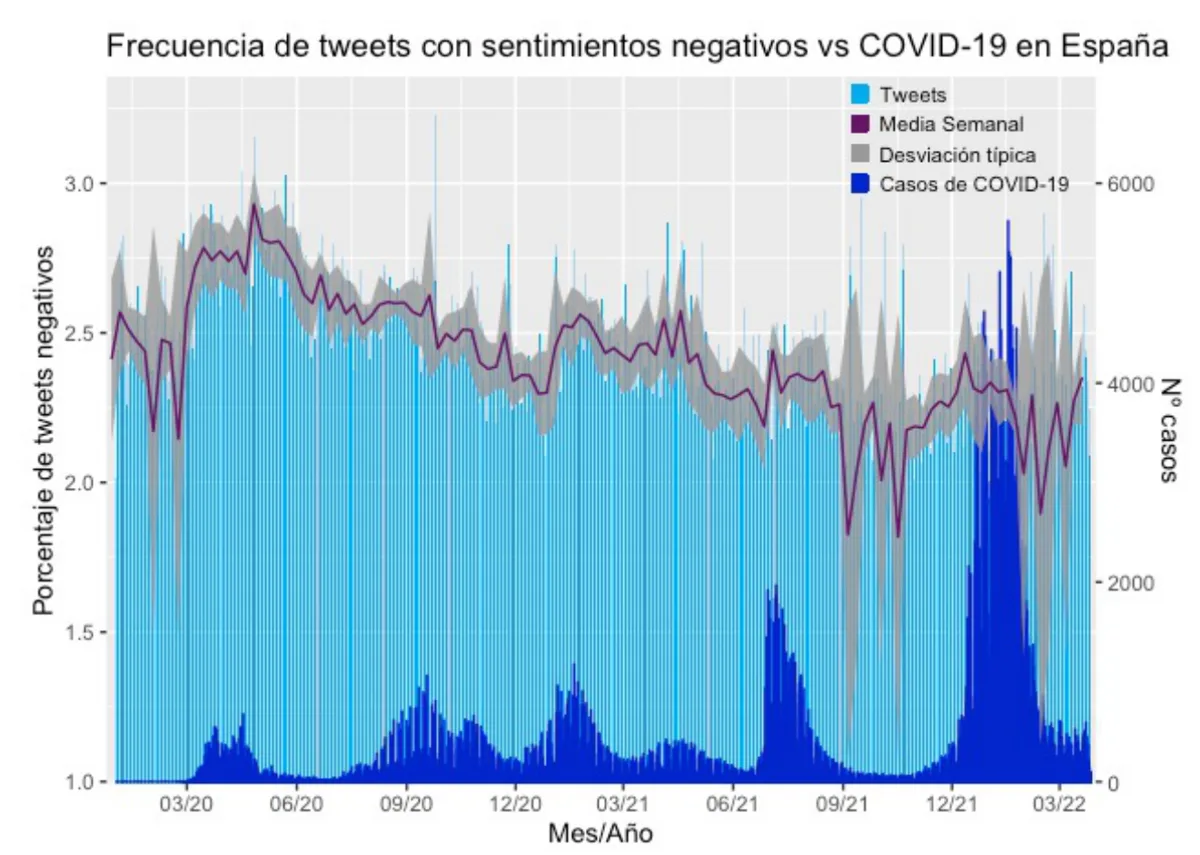
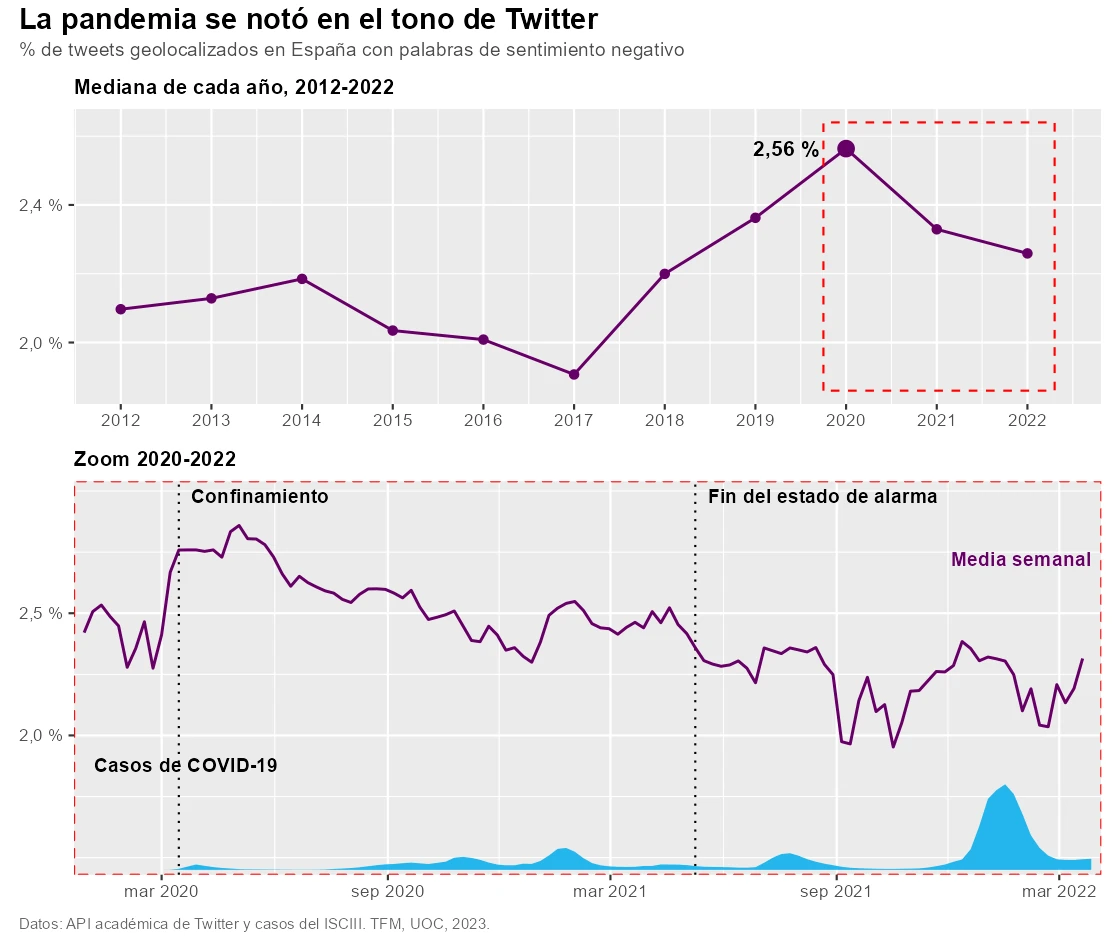
«Sobre mí»: HARMONY en 2022, gráfico del TFM UOC y figura de gobernanza
- 2022: HARMONY (datos de cánceres hematológicos, asamblea general de
  2022) con un diagrama propio del recorrido del dato, sin logos.
- 2021: gráfico del TFM de la UOC rehecho (media semanal digitalizada
  del gráfico original; la serie en bruto no se guardó).
- 2026: figura iso-glow del modelo que pasa la validación antes del
  hospital.
- Fuera proreg.webp (sin captura de la plataforma).

diff --git a/src/i18n/ui.ts b/src/i18n/ui.ts
@@ -48,9 +48,9 @@ export const ui = {
       camino: [
         { etiqueta: 'Hoy', texto: 'Soy Miguel [[retrato]]. Trabajo en la vigilancia y supervisión de modelos de inteligencia artificial en sanidad, desde Santiago de Compostela.' },
         { etiqueta: '2018 · Biología', texto: 'Estudié Biología en la Universidade de Santiago de Compostela, y la naturaleza [[mariposa]] sigue siendo mi primer interés. El máster en Bioingeniería del IQS fue mi paso del laboratorio al ordenador. Mi trabajo final fue EASiMap, una especie de mapa estelar de proteínas que sitúa las familias de enzimas a partir de sus estructuras [[easimap]].' },
-        { etiqueta: '2021 · Datos de salud', texto: 'Entré en GMV como analista de datos de salud, trabajando con datasets clínicos europeos y su calidad. En paralelo seguí formándome con el máster en Bioinformática y Bioestadística de la UOC, donde aprendí machine learning y lo apliqué a datos de salud.' },
-        { etiqueta: '2022 · Producto', texto: 'Pasé a gestionar productos de datos. Diseñé el flujo de datos de plataformas europeas como ProReg, el registro de cáncer de próstata de la European Association of Urology, con el modelo OMOP en la base, procesos ETL con controles de calidad e iteraciones con urólogos de varios países.' },
-        { etiqueta: '2026 · Gobernanza de IA', texto: 'Hoy diseño cómo se valida un modelo de IA antes de que llegue a la práctica clínica y cómo se vigila cuando ya está en uso (así empezó Blade Runner), desde su calidad, equidad y deriva hasta la forma en que lo usan los profesionales. Lo hago con IBM watsonx.governance en dos sistemas autonómicos de salud, y lo presento ante sistemas sanitarios. Mi objetivo es contribuir a que la IA siga al servicio de las personas.' },
+        { etiqueta: '2021 · Datos de salud', texto: 'Entré en GMV como analista de datos de salud, trabajando con datasets clínicos europeos y su calidad. En paralelo seguí formándome con el máster en Bioinformática y Bioestadística de la UOC, donde aprendí machine learning y lo apliqué a datos de salud [[tuits]].' },
+        { etiqueta: '2022 · Producto', texto: 'Pasé a gestionar productos de datos. Diseñé el flujo de datos de plataformas europeas como HARMONY, la red de datos de cánceres hematológicos [[harmony]], que presenté en su asamblea general de 2022, y ProReg, el registro de cáncer de próstata de la European Association of Urology. En la base estaba el modelo OMOP, con procesos ETL con controles de calidad e iteraciones con clínicos de varios países.' },
+        { etiqueta: '2026 · Gobernanza de IA', texto: 'Hoy diseño cómo se valida un modelo de IA antes de que llegue a la práctica clínica [[gobernanza]] y cómo se vigila cuando ya está en uso (así empezó Blade Runner), desde su calidad, equidad y deriva hasta la forma en que lo usan los profesionales. Lo hago con IBM watsonx.governance en dos sistemas autonómicos de salud, y lo presento ante sistemas sanitarios. Mi objetivo es contribuir a que la IA siga al servicio de las personas.' },
         { etiqueta: 'Por mi cuenta', texto: 'Todo lo que he ido aprendiendo, en la formación y en el trabajo, lo sigo usando por mi cuenta para construir herramientas. Hay mapas con datos abiertos, Vigía, un curso de seguridad de la IA y WikiNatu [[wikinatu]], que junta dos cosas que me gustan, las rutas de montaña y la biodiversidad que hay en ellas. La naturaleza sigue muy presente [[montana]], y también me interesa la fotografía [[paisaje]], sin considerarme fotógrafo.' },
       ],
       fotos: {
@@ -59,6 +59,9 @@ export const ui = {
         easimap: { src: '/sobre-mi/easimap.webp', alt: 'EASiMap, mapa estelar del hemisferio norte de la familia de enzimas GH1, con zoom en la posición 333: el triptófano se orienta distinto en eucariotas que en bacterias y arqueas' },
         tuits: { src: '/sobre-mi/tuits-covid.webp', alt: 'Gráfico de tuits con sentimiento negativo frente a casos de COVID-19 en España' },
         proreg: { src: '/sobre-mi/proreg.webp', alt: 'Web pública de ProReg, el registro de cáncer de próstata de la EAU' },
+        tuits: { src: '/sobre-mi/tuits-covid.webp', alt: 'Tuits con sentimiento negativo en España: la mediana anual sube a 2,56 % en 2020, y un zoom de 2020 a 2022 con la media semanal y las olas de COVID-19' },
+        harmony: { src: '/sobre-mi/harmony.webp', alt: 'Viaje de los datos en HARMONY: de los hospitales al repositorio armonizado en OMOP y a los equipos de análisis' },
+        gobernanza: { src: '/sobre-mi/gobernanza.webp', alt: 'Un modelo de IA pasa por un arco de validación antes de llegar a los servicios del hospital' },
         wikinatu: { src: '/sobre-mi/wikinatu.webp', alt: 'WikiNatu en la ruta de O Pindo: 83 especies de iNaturalist sobre el mapa y cinco fichas con foto' },
         montana: { src: '/sobre-mi/montana.webp', alt: 'Miguel en un valle nevado de montaña' },
         paisaje: { src: '/sobre-mi/paisaje.webp', alt: 'Valle con un río y montañas nevadas' },
@@ -117,9 +120,9 @@ export const ui = {
       camino: [
         { etiqueta: 'Today', texto: 'I am Miguel [[retrato]]. I work on monitoring and overseeing artificial intelligence models in healthcare, from Santiago de Compostela, Spain.' },
         { etiqueta: '2018 · Biology', texto: 'I studied Biology at the University of Santiago de Compostela, and nature [[mariposa]] is still my first interest. The MSc in Bioengineering at IQS was my move from the lab to the computer. My thesis was EASiMap, a kind of star map of proteins that places enzyme families from their structures [[easimap]].' },
-        { etiqueta: '2021 · Health data', texto: 'I joined GMV as a health data analyst, working with European clinical datasets and their quality. At the same time I kept studying with the MSc in Bioinformatics and Biostatistics at UOC, where I learned machine learning and applied it to health data.' },
-        { etiqueta: '2022 · Product', texto: 'I moved on to managing data products. I designed the data flow of European platforms such as ProReg, the prostate cancer registry of the European Association of Urology, with the OMOP model underneath, ETL processes with quality checks, and iterations with urologists from several countries.' },
-        { etiqueta: '2026 · AI governance', texto: 'Today I design how an AI model is validated before it reaches clinical practice and how it is monitored once in use (that is how Blade Runner started), from its quality, fairness and drift to the way professionals use it. I do it with IBM watsonx.governance in two regional health systems, and I present it to health systems. My goal is to help keep AI at the service of people.' },
+        { etiqueta: '2021 · Health data', texto: 'I joined GMV as a health data analyst, working with European clinical datasets and their quality. At the same time I kept studying with the MSc in Bioinformatics and Biostatistics at UOC, where I learned machine learning and applied it to health data [[tuits]].' },
+        { etiqueta: '2022 · Product', texto: 'I moved on to managing data products. I designed the data flow of European platforms such as HARMONY, the network for haematological cancer data [[harmony]], which I presented at its 2022 general assembly, and ProReg, the prostate cancer registry of the European Association of Urology. Underneath sat the OMOP model, with ETL processes with quality checks and iterations with clinicians from several countries.' },
+        { etiqueta: '2026 · AI governance', texto: 'Today I design how an AI model is validated before it reaches clinical practice [[gobernanza]] and how it is monitored once in use (that is how Blade Runner started), from its quality, fairness and drift to the way professionals use it. I do it with IBM watsonx.governance in two regional health systems, and I present it to health systems. My goal is to help keep AI at the service of people.' },
         { etiqueta: 'On my own', texto: 'Everything I have learned, in my studies and at work, I keep using on my own to build tools. There are open-data maps, Vigía, an AI safety course and WikiNatu [[wikinatu]], which brings together two things I like, mountain routes and the biodiversity along them. Nature is still very present [[montana]], and I am also into photography [[paisaje]], without calling myself a photographer.' },
       ],
       fotos: {
@@ -128,6 +131,9 @@ export const ui = {
         easimap: { src: '/sobre-mi/easimap.webp', alt: 'EASiMap, star map of the northern hemisphere of the GH1 enzyme family, zooming into position 333: the tryptophan points differently in eukaryotes than in bacteria and archaea' },
         tuits: { src: '/sobre-mi/tuits-covid.webp', alt: 'Chart of negative-sentiment tweets against COVID-19 cases in Spain' },
         proreg: { src: '/sobre-mi/proreg.webp', alt: 'Public website of ProReg, the EAU prostate cancer registry' },
+        tuits: { src: '/sobre-mi/tuits-covid.webp', alt: 'Negative-sentiment tweets in Spain: the yearly median peaks at 2.56 % in 2020, plus a 2020-2022 zoom with the weekly mean and COVID-19 waves' },
+        harmony: { src: '/sobre-mi/harmony.webp', alt: 'HARMONY data journey: from hospitals to the harmonised OMOP repository and the analysis teams' },
+        gobernanza: { src: '/sobre-mi/gobernanza.webp', alt: 'An AI model passes through a validation arch before reaching the hospital services' },
         wikinatu: { src: '/sobre-mi/wikinatu.webp', alt: 'WikiNatu on the O Pindo route: 83 iNaturalist species on the map and five species cards' },
         montana: { src: '/sobre-mi/montana.webp', alt: 'Miguel in a snowy mountain valley' },
         paisaje: { src: '/sobre-mi/paisaje.webp', alt: 'Valley with a river and snowy mountains' },
